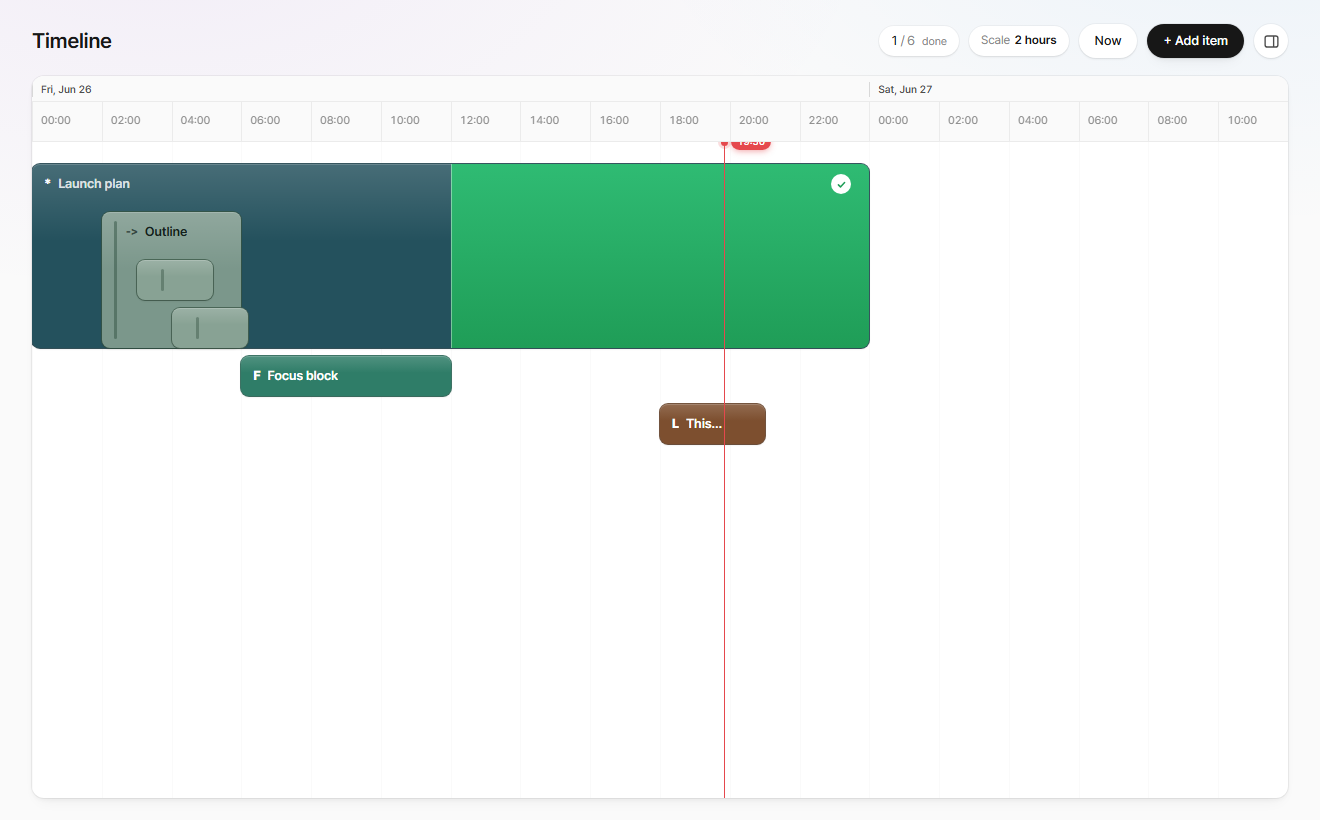
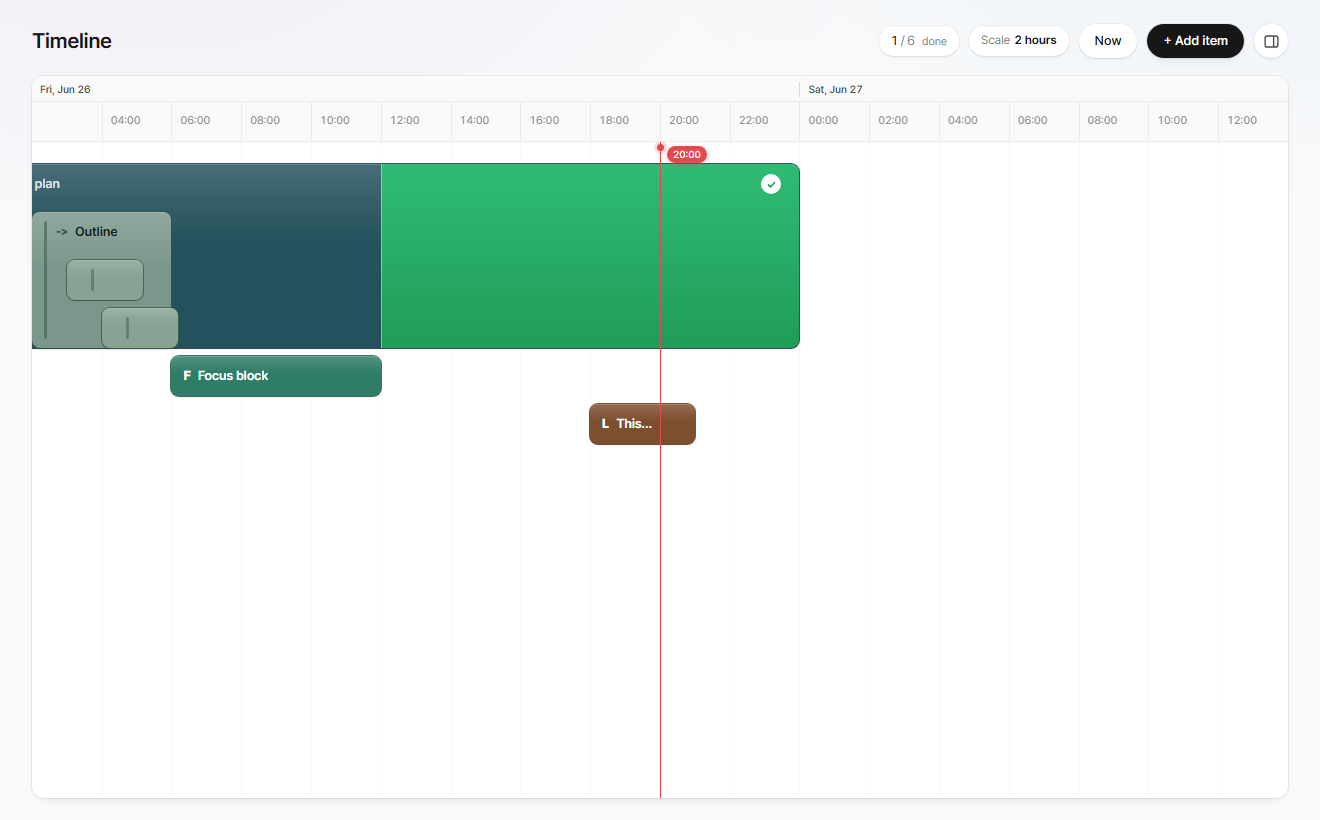
feat: centre default view on now, fix now-line visibility and lag
- Default view is now centred on the current time (now +/- 18h, 36h span) instead of pinned to midnight; seed items are anchored to startOfDay independently of the view so labels stay fixed
- now-line flag/dot moved inside the track (was clipped behind the sticky clock header) and raised above bars
- now-line refreshes every 1s instead of 30s (no more perceived lag)
- e2e: freeze the clock at noon via page.clock.setFixedTime so the now-centred view is deterministic and all seed items stay in view; updated empty-track-click and zoom-tick assertions accordingly
- check 0/0, unit 15, e2e 20, build OK

diff --git a/e2e/timeline.e2e.ts b/e2e/timeline.e2e.ts
@@ -1,6 +1,11 @@
 import { expect, test } from "@playwright/test"
 
+// Freeze the clock at local noon so the now-centred default view is deterministic
+// and every seed item (06:00–21:00) stays comfortably inside the 36h window.
+const FIXED_NOW = new Date(2026, 5, 26, 12, 0, 0)
+
 test.beforeEach(async ({ page }) => {
+  await page.clock.setFixedTime(FIXED_NOW)
   await page.goto("/")
   await page.evaluate(() => window.localStorage.removeItem("timeline.todo.v1"))
   await page.reload()
@@ -27,9 +32,9 @@ test("ctrl+wheel zooms in to one-hour ticks and back out", async ({ page }) => {
   await page.keyboard.up("Control")
 
   await expect(page.getByTestId("scale-label")).toHaveText("1 hour")
-  // zoom is anchored at the cursor (surface centre ~ 18:00 in the 36h view), so an
-  // odd hour near the centre only appears when ticks are at the 1-hour interval
-  await expect(page.getByTestId("tick-17:00")).toBeVisible()
+  // zoom is anchored at the cursor (surface centre ~ 12:00 with the clock frozen at
+  // noon), so an odd hour near the centre only appears at the 1-hour interval
+  await expect(page.getByTestId("tick-13:00")).toBeVisible()
 
   await page.keyboard.down("Control")
   await page.mouse.wheel(0, 400)
@@ -220,13 +225,13 @@ test("empty track click opens an add editor at the clicked hour", async ({ page 
   expect(box).not.toBeNull()
   if (box === null) return
 
-  // default view spans 36h from midnight; click empty space past all seed items
-  // 34/36 of the width maps to 34:00 -> next-day 10:00
-  await page.mouse.click(box.x + box.width * (34 / 36), box.y + 200)
+  // clock is frozen at noon and the view is centred on now, so the horizontal
+  // centre maps to 12:00; click an empty row well below the seed items
+  await page.mouse.click(box.x + box.width / 2, box.y + box.height - 60)
 
   await expect(page.getByTestId("editor-popover")).toBeVisible()
-  await expect(page.getByTestId("editor-start")).toHaveValue("10")
-  await expect(page.getByTestId("editor-end")).toHaveValue("11")
+  await expect(page.getByTestId("editor-start")).toHaveValue("12")
+  await expect(page.getByTestId("editor-end")).toHaveValue("13")
 })
 
 test("item drag uses one-hour snap even at the default six-hour scale", async ({ page }) => {

diff --git a/src/routes/+page.svelte b/src/routes/+page.svelte
@@ -91,8 +91,9 @@
   const minRangeMs = 2 * hourMs
   const maxRangeMs = 96 * hourMs
   const defaultRangeMs = 36 * hourMs
-  let viewStart = $state<Date>(initialViewStart)
-  let viewEnd = $state<Date>(new Date(initialViewStart.getTime() + defaultRangeMs))
+  const initialNow = Date.now()
+  let viewStart = $state<Date>(new Date(initialNow - defaultRangeMs / 2))
+  let viewEnd = $state<Date>(new Date(initialNow + defaultRangeMs / 2))
   let items = $state<readonly TimelineItem[]>(loadItems())
   let dragState = $state<DragState | null>(null)
   let editor = $state<EditorState | null>(null)
@@ -232,11 +233,11 @@
       title,
       icon,
       color,
-      startAt: atHour(viewStart, startHour),
-      endAt: atHour(viewStart, endHour),
+      startAt: atHour(initialViewStart, startHour),
+      endAt: atHour(initialViewStart, endHour),
       ...(parentId === undefined ? {} : { parentId }),
       order,
-      ...(completedHour === undefined ? {} : { completedFrom: atHour(viewStart, completedHour) }),
+      ...(completedHour === undefined ? {} : { completedFrom: atHour(initialViewStart, completedHour) }),
     })
     if (result.kind === "valid") return result.item
     throw new Error("Initial timeline item must have a valid duration")

diff --git a/src/lib/timeline/TimelineNowLine.svelte b/src/lib/timeline/TimelineNowLine.svelte
@@ -10,7 +10,7 @@
   let now = $state(new Date())
 
   onMount(() => {
-    const id = setInterval(() => (now = new Date()), 30_000)
+    const id = setInterval(() => (now = new Date()), 1_000)
     return () => clearInterval(id)
   })
 
@@ -36,14 +36,14 @@
     top: 0;
     bottom: 0;
     width: 0;
-    z-index: 4;
+    z-index: 5;
     border-left: 1.5px solid var(--danger);
     pointer-events: none;
   }
 
   .now-dot {
     position: absolute;
-    top: -3px;
+    top: 2px;
     left: -4px;
     width: 7px;
     height: 7px;
@@ -54,7 +54,7 @@
 
   .now-flag {
     position: absolute;
-    top: -9px;
+    top: 4px;
     left: 6px;
     padding: 1px 6px;
     border-radius: 999px;

diff --git a/DEVELOPMENT.md b/DEVELOPMENT.md
@@ -348,3 +348,29 @@ function handleWheel(event: WheelEvent): void {
 ## 21. 2차 이터레이션 검증 결과
 
 모든 게이트 green 유지: `check` 0/0, 단위 **15** passed(`niceTickHours`·`generateHourTicks` 추가), e2e **20** passed, `build` 성공. 사이드바/달력/36h/now-line은 실제 브라우저 스크린샷으로 시각 확인(`docs/images/hero.png`, `sidebar.png`).
+
+---
+
+# Part III — 현재시각 중앙 정렬 & now-line 다듬기
+
+## 22. 기본 뷰를 "현재시각 중앙"으로 (테스트 결정성은 가짜 시계로 확보)
+
+**문제(요구):** "맨 왼쪽이 0시 정렬이고 가운데가 now가 아니다. 열면 now가 중앙에 오게."
+
+**왜 어려운가:** 뷰를 `now` 중앙(`[now-18h, now+18h]`)으로 열면 실행 시각에 따라 **고정 시계시각 시드 아이템이 화면 가장자리에서 잘려** 위치 기반 클릭/드래그 E2E가 시간대 의존으로 불안정해진다. 그런데 라벨 단언(`"12:00"`) 때문에 시드는 고정 시계시각이어야 한다.
+
+**해결:**
+- 앱: 기본 `viewStart/viewEnd = now ± 18h`(36h, 중앙=now). **시드 기준을 뷰에서 분리** — `atHour(viewStart,…)` → `atHour(initialViewStart,…)`(=`startOfDay(now)`)로 바꿔 시드는 항상 고정 시계시각.
+- 테스트: 핵심은 **Playwright `page.clock.setFixedTime(정오)`** 를 `beforeEach`의 `goto` 전에 호출. 시각을 정오로 고정하면 중앙 뷰가 `[전날 18:00, 다음날 06:00]`이 되어 **모든 시드(0~24시)가 여유롭게 화면 안**에 들어오고, 화면 중앙 x가 정확히 12:00 → 결정적. `setFixedTime`은 `Date`만 고정하고 타이머/rAF는 그대로 둬서 **Svelte 트랜지션이 정상 작동**(`install()`을 쓰면 rAF까지 묶여 트랜지션이 멈춰 깨졌을 것).
+- 그에 맞춰 테스트 갱신: `empty track click`은 중앙(=12:00) 하단 빈 행 클릭 → `"12"/"13"`. 줌인 검증 틱은 정오 부근 홀수시 `tick-13:00`.
+
+**교훈:** "현재시각에 의존하는 UI"를 결정적으로 테스트하려면 **시계를 고정**하라(앱에 테스트 전용 분기를 넣지 말고). 단, 시계 고정 도구가 타이머/rAF까지 묶는지 확인 — 트랜지션이 멈춘다.
+
+## 23. now-line: 헤더에 가리고, 느리게 갱신되던 문제
+
+- **가림:** now-line 플래그가 `top:-9px`라 sticky 축 헤더(z6) 아래로 들어가 잘렸음. → 플래그/점을 트랙 안쪽(`top:4px`/`2px`)으로 내리고 z-index 5로 올려 바 위·헤더 아래에 또렷이 표시.
+- **지연:** 갱신 주기 30초 → **1초**. 36h/1216px에서 분당 이동은 1px 미만이라 시각적 점프는 없지만, "시간이 느리게 반영"되는 체감을 제거.
+
+## 24. 검증
+
+`check` 0/0, 단위 **15**, e2e **20**, `build` 성공. 중앙 정렬 now-line은 `docs/images/hero.png`로 시각 확인(플래그 노출 + 중앙 위치).

diff --git a/README.md b/README.md
@@ -10,10 +10,10 @@ Built with SvelteKit 2 + Svelte 5 (runes), TypeScript, and a Vercel-inspired des
 
 ## Features
 
-- **Time-boxed bars** — every task is a duration bar with a start and end time, positioned on a real clock axis. The default view spans ~36 hours so you always see today plus context.
+- **Time-boxed bars** — every task is a duration bar with a start and end time, positioned on a real clock axis. On load the view is **centred on the current moment** and spans ~36 hours, so you always see now plus context on both sides.
 - **Continuous zoom that resizes the gantt** — `Ctrl/⌘ + wheel` zooms in/out around the cursor, growing or shrinking the bars. Tick density adapts automatically (1h when zoomed in, widening to 2h / 3h / 6h / 12h as you zoom out) so labels never overlap.
 - **Smart scrolling** — vertical wheel scrolls the rows when they overflow; otherwise it pans through time. `Shift + wheel` and trackpad swipes pan horizontally. The clock header stays pinned while rows scroll.
-- **Live "now" line** — a red indicator with a time flag marks the current moment, is visible on load, and follows the clock. The **Now** button re-centres the view on the present.
+- **Live "now" line** — a red indicator with a time flag marks the current moment, sits at the centre on load, and updates every second. The **Now** button re-centres the view on the present.
 - **Drag, resize, snap** — drag a bar to move it, drag its right edge to resize. Everything snaps to one-hour boundaries at any zoom level.
 - **Unlimited nesting** — drop one task onto another to make it a child. **Parent bars grow vertically to contain their descendants**, forming clear visual groups. Self-drops and descendant-drops are rejected.
 - **Resizable calendar sidebar** — a toggleable side panel (next to *Add item*) with a month **heat-map calendar**: each day is a circle whose fill deepens with how busy it is (scaled to the busiest day that month). Click a day to jump there; the panel also lists that day's items. Drag its edge to resize.
